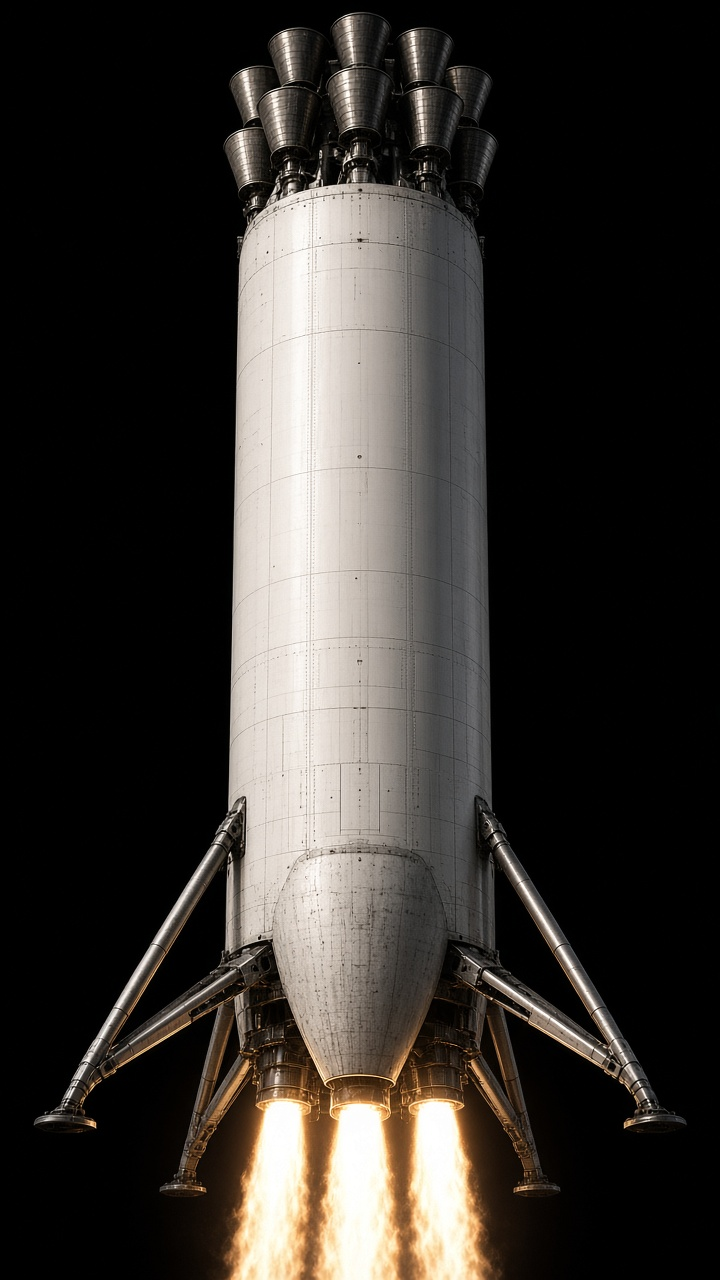
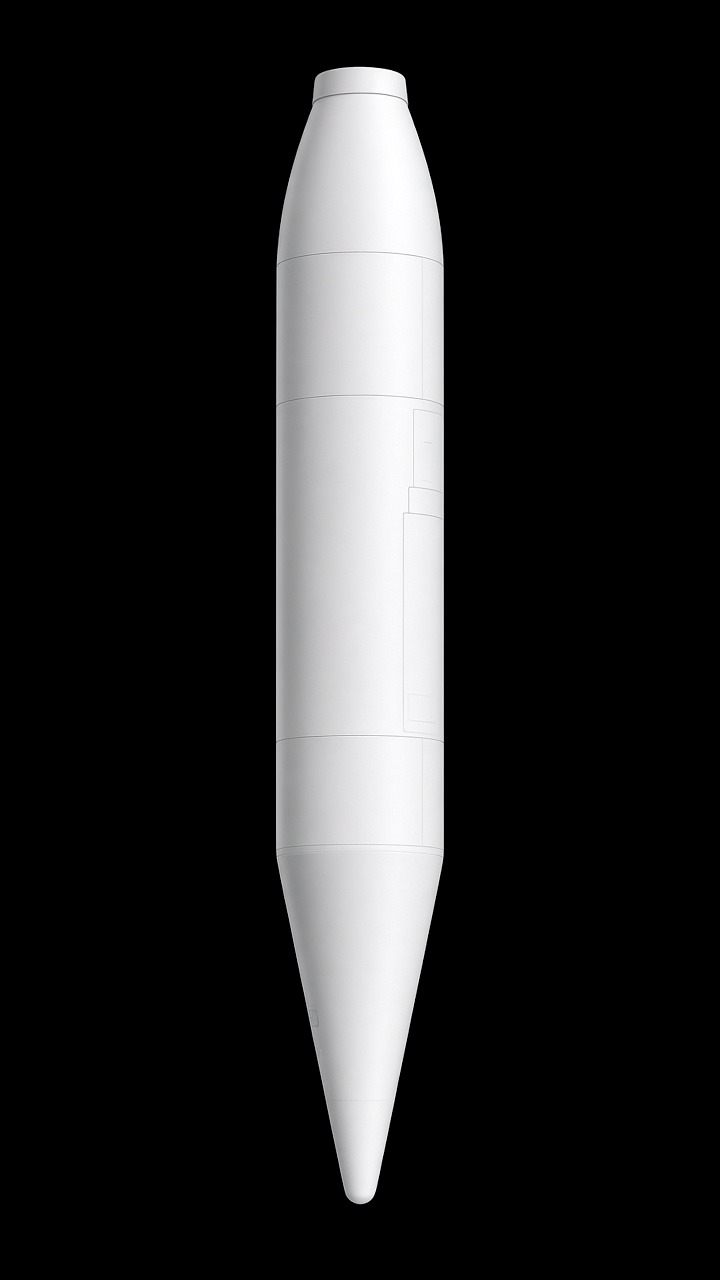
Replace the nose-down slide with a clean inverted stage.
The photograph is one closed white rocket, nose down, with no legs and no engines. The copy matches that vehicle, and the phone layout keeps the stage above the text.

diff --git a/site/js/lang/en.js b/site/js/lang/en.js
@@ -395,13 +395,16 @@ window.EBAL_PACK = {
   "На полигоне П-4. Парашют и двигатели мягкой посадки за 1,2 секунды до грунта. На «Север-0» отклонение было 4,6 км. Коридор для людей уже: 8 км по модели Рахала, за ним — разбор, не катастрофа, но миссия не закрыта.": "South of Orsk. Parachute and soft-landing motors 1.2 seconds before the ground. On Sever-0 the miss was 4.6 km. The corridor for people is tighter: 8 km on Rakhal’s model. Beyond that is a review, not a disaster, but the mission is not closed.",
   "Наши технологии": "Our technology",
   "Носовая посадка": "Nose-first landing",
-  "После отделения ступень разворачивается на 180° и идёт к площадке носовой частью вниз. Торможение ведут три двигателя головного блока. Хвостовая девятка в этом режиме не включается: сопла смотрят вверх.": "After separation the stage turns 180° and flies to the pad nose-down. Three engines in the forward bay do the braking. The tail cluster stays off: its nozzles point upward.",
+  "После отделения ступень разворачивается на 180° и идёт к площадке носовой частью вниз. Хвостовой отсек остаётся сверху.": "After separation the stage turns 180° and flies to the pad nose-down. The tail bay stays on top.",
   "На «Север-1» ступень B1041 садится хвостовым двигателем, как на «Север-0». Носовая посадка начинается со следующего борта.": "On Sever-1, stage B1041 still lands on its tail engine, as on Sever-0. Nose-first landing starts with the next booster.",
   "разворот после отделения": "flip after separation",
-  "двигателя в носу": "engines in the nose",
-  "опоры головного отсека": "legs on the forward bay",
-  "высота включения": "ignition altitude",
+  "к площадке": "toward the pad",
+  "сверху": "on top",
+  "начало режима": "start of the mode",
+  "1,2 км": "1.2 km",
   "Ступень EBAL садится носовой частью к площадке, хвостовые сопла смотрят вверх": "An EBAL stage landing nose-down, tail nozzles pointing up",
-  "Головной блок: опоры вокруг носа и тормозной двигатель": "Forward bay: legs around the nose and the braking engine"
+  "Головной блок: опоры вокруг носа и тормозной двигатель": "Forward bay: legs around the nose and the braking engine",
+  "нос": "nose",
+  "хвост": "tail",
+  "Ступень EBAL перевёрнута: носовая часть внизу, хвостовой отсек сверху": "An EBAL stage turned over: nose at the bottom, tail bay on top",
 };
-window.EBAL_EN = window.EBAL_PACK;

diff --git a/site/js/lang/hi.js b/site/js/lang/hi.js
@@ -53,10 +53,14 @@ window.EBAL_PACK = {
   "Страница эфира": "प्रसारण पृष्ठ",
   "Наши технологии": "हमारी तकनीक",
   "Носовая посадка": "नाक नीचे की ओर लैंडिंग",
-  "После отделения ступень разворачивается на 180° и идёт к площадке носовой частью вниз. Торможение ведут три двигателя головного блока. Хвостовая девятка в этом режиме не включается: сопла смотрят вверх.": "अलग होने के बाद चरण 180° घूमकर पैड की ओर नाक नीचे करके जाता है। ब्रेक आगे के तीन इंजन लगाते हैं। पूँछ के नौ इंजन इस मोड में नहीं चलते: नोजल ऊपर देखते हैं।",
+  "После отделения ступень разворачивается на 180° и идёт к площадке носовой частью вниз. Хвостовой отсек остаётся сверху.": "अलग होने के बाद चरण 180° घूमता है और नाक नीचे करके पैड की ओर जाता है। पूँछ का खंड ऊपर रहता है।",
   "На «Север-1» ступень B1041 садится хвостовым двигателем, как на «Север-0». Носовая посадка начинается со следующего борта.": "सेवेर-1 पर B1041 अभी भी सेवेर-0 की तरह पूँछ के इंजन से उतरता है। नाक-नीचे लैंडिंग अगले बूस्टर से शुरू होती है।",
   "разворот после отделения": "अलग होने के बाद घुमाव",
-  "двигателя в носу": "नाक के इंजन",
-  "опоры головного отсека": "आगे के खंड की टाँगें",
-  "высота включения": "इग्निशन ऊँचाई"
+  "к площадке": "पैड की ओर",
+  "сверху": "ऊपर",
+  "начало режима": "मोड की शुरुआत",
+  "1,2 км": "1,2 km",
+  "нос": "नाक",
+  "хвост": "पूँछ",
+  "Ступень EBAL перевёрнута: носовая часть внизу, хвостовой отсек сверху": "उलटा EBAL चरण: नाक नीचे, पूँछ का खंड ऊपर",
 };

diff --git a/site/js/lang/uk.js b/site/js/lang/uk.js
@@ -53,10 +53,14 @@ window.EBAL_PACK = {
   "Страница эфира": "Сторінка ефіру",
   "Наши технологии": "Наші технології",
   "Носовая посадка": "Носова посадка",
-  "После отделения ступень разворачивается на 180° и идёт к площадке носовой частью вниз. Торможение ведут три двигателя головного блока. Хвостовая девятка в этом режиме не включается: сопла смотрят вверх.": "Після відділення ступінь розвертається на 180° і йде до майданчика носовою частиною вниз. Гальмують три двигуни головного блока. Хвостова дев'ятка в цьому режимі не вмикається: сопла дивляться вгору.",
+  "После отделения ступень разворачивается на 180° и идёт к площадке носовой частью вниз. Хвостовой отсек остаётся сверху.": "Після відокремлення ступінь розвертається на 180° і йде до майданчика носовою частиною вниз. Хвостовий відсік лишається зверху.",
   "На «Север-1» ступень B1041 садится хвостовым двигателем, как на «Север-0». Носовая посадка начинается со следующего борта.": "На «Сєвер-1» ступінь B1041 сідає хвостовим двигуном, як на «Сєвер-0». Носова посадка починається з наступного борту.",
   "разворот после отделения": "розворот після відділення",
-  "двигателя в носу": "двигуни в носі",
-  "опоры головного отсека": "опори головного відсіку",
-  "высота включения": "висота ввімкнення"
+  "к площадке": "до майданчика",
+  "сверху": "зверху",
+  "начало режима": "початок режиму",
+  "1,2 км": "1,2 km",
+  "нос": "ніс",
+  "хвост": "хвіст",
+  "Ступень EBAL перевёрнута: носовая часть внизу, хвостовой отсек сверху": "Ступінь EBAL перевернутий: носова частина внизу, хвостовий відсік зверху",
 };

diff --git a/site/js/lang/kk.js b/site/js/lang/kk.js
@@ -53,10 +53,14 @@ window.EBAL_PACK = {
   "Страница эфира": "Эфир беті",
   "Наши технологии": "Біздің технология",
   "Носовая посадка": "Мұрынмен қону",
-  "После отделения ступень разворачивается на 180° и идёт к площадке носовой частью вниз. Торможение ведут три двигателя головного блока. Хвостовая девятка в этом режиме не включается: сопла смотрят вверх.": "Бөлінгеннен кейін саты 180° бұрылып, алаңға мұрын бөлігімен төмен барады. Тежеуді бас блоктың үш қозғалтқышы жүргізеді. Құйрық тоғыздығы бұл режимде қосылмайды: соплолар жоғары қарайды.",
+  "После отделения ступень разворачивается на 180° и идёт к площадке носовой частью вниз. Хвостовой отсек остаётся сверху.": "Бөлінгеннен кейін саты 180° бұрылады және алаңға мұрнымен төмен барады. Құйрық бөлімі жоғарыда қалады.",
   "На «Север-1» ступень B1041 садится хвостовым двигателем, как на «Север-0». Носовая посадка начинается со следующего борта.": "«Север-1»-де B1041 сатысы «Север-0»-дегідей құйрық қозғалтқышымен қонады. Мұрынмен қону келесі борттан басталады.",
   "разворот после отделения": "бөлінгеннен кейінгі бұрылыс",
-  "двигателя в носу": "мұрындағы қозғалтқыш",
-  "опоры головного отсека": "бас бөлім тіректері",
-  "высота включения": "қосылу биіктігі"
+  "к площадке": "алаңға",
+  "сверху": "жоғарыда",
+  "начало режима": "режимнің басы",
+  "1,2 км": "1,2 km",
+  "нос": "мұрын",
+  "хвост": "құйрық",
+  "Ступень EBAL перевёрнута: носовая часть внизу, хвостовой отсек сверху": "EBAL сатысы төңкерілген: мұрын төменде, құйрық бөлімі жоғарыда",
 };

diff --git a/site/js/lang/ar.js b/site/js/lang/ar.js
@@ -53,10 +53,14 @@ window.EBAL_PACK = {
   "Страница эфира": "صفحة البث",
   "Наши технологии": "تقنيتنا",
   "Носовая посадка": "هبوط بالمقدمة نحو الأرض",
-  "После отделения ступень разворачивается на 180° и идёт к площадке носовой частью вниз. Торможение ведут три двигателя головного блока. Хвостовая девятка в этом режиме не включается: сопла смотрят вверх.": "بعد الانفصال تستدير المرحلة 180° وتهبط ومقدمتها نحو المنصة. الكبح لثلاثة محركات في المقدمة. مجموعة الذيل التسعة لا تعمل في هذا الوضع: فوهاتها تتجه إلى الأعلى.",
+  "После отделения ступень разворачивается на 180° и идёт к площадке носовой частью вниз. Хвостовой отсек остаётся сверху.": "بعد الانفصال تستدير المرحلة 180° وتتجه إلى المنصة ومقدمتها إلى الأسفل. قسم الذيل يبقى في الأعلى.",
   "На «Север-1» ступень B1041 садится хвостовым двигателем, как на «Север-0». Носовая посадка начинается со следующего борта.": "في سيفر-1 تهبط المرحلة B1041 بمحرك الذيل كما في سيفر-0. الهبوط بالمقدمة يبدأ من الجسم التالي.",
   "разворот после отделения": "استدارة بعد الانفصال",
-  "двигателя в носу": "محركات في المقدمة",
-  "опоры головного отсека": "قوائم القسم الأمامي",
-  "высота включения": "ارتفاع التشغيل"
+  "к площадке": "نحو المنصة",
+  "сверху": "في الأعلى",
+  "начало режима": "بداية الوضع",
+  "1,2 км": "1,2 km",
+  "нос": "المقدمة",
+  "хвост": "الذيل",
+  "Ступень EBAL перевёрнута: носовая часть внизу, хвостовой отсек сверху": "مرحلة EBAL مقلوبة: المقدمة في الأسفل وقسم الذيل في الأعلى",
 };

diff --git a/site/js/lang/vi.js b/site/js/lang/vi.js
@@ -53,10 +53,14 @@ window.EBAL_PACK = {
   "Страница эфира": "Trang trực tiếp",
   "Наши технологии": "Công nghệ của chúng tôi",
   "Носовая посадка": "Hạ cánh mũi hướng xuống",
-  "После отделения ступень разворачивается на 180° и идёт к площадке носовой частью вниз. Торможение ведут три двигателя головного блока. Хвостовая девятка в этом режиме не включается: сопла смотрят вверх.": "Sau khi tách, tầng tên lửa xoay 180° và bay xuống bệ với mũi hướng xuống. Ba động cơ ở khối mũi hãm tốc. Chín động cơ đuôi không hoạt động ở chế độ này: loa phụt hướng lên.",
+  "После отделения ступень разворачивается на 180° и идёт к площадке носовой частью вниз. Хвостовой отсек остаётся сверху.": "Sau khi tách, tầng quay 180° và bay về bãi với mũi hướng xuống. Khoang đuôi ở phía trên.",
   "На «Север-1» ступень B1041 садится хвостовым двигателем, как на «Север-0». Носовая посадка начинается со следующего борта.": "Ở Sever-1, tầng B1041 vẫn hạ cánh bằng động cơ đuôi như Sever-0. Hạ cánh mũi xuống bắt đầu từ thân tên lửa tiếp theo.",
   "разворот после отделения": "lật sau khi tách",
-  "двигателя в носу": "động cơ ở mũi",
-  "опоры головного отсека": "chân ở khoang mũi",
-  "высота включения": "độ cao đánh lửa"
+  "к площадке": "về bãi",
+  "сверху": "phía trên",
+  "начало режима": "bắt đầu chế độ",
+  "1,2 км": "1,2 km",
+  "нос": "mũi",
+  "хвост": "đuôi",
+  "Ступень EBAL перевёрнута: носовая часть внизу, хвостовой отсек сверху": "Tầng EBAL lộn ngược: mũi ở dưới, khoang đuôi ở trên",
 };

diff --git a/site/js/lang/fr.js b/site/js/lang/fr.js
@@ -53,10 +53,14 @@ window.EBAL_PACK = {
   "Страница эфира": "Page du direct",
   "Наши технологии": "Notre technologie",
   "Носовая посадка": "Atterrissage nez vers le sol",
-  "После отделения ступень разворачивается на 180° и идёт к площадке носовой частью вниз. Торможение ведут три двигателя головного блока. Хвостовая девятка в этом режиме не включается: сопла смотрят вверх.": "Après la séparation, l'étage se retourne de 180° et rejoint l'aire le nez vers le sol. Trois moteurs du bloc avant freinent. Les neuf moteurs de queue restent éteints : leurs tuyères pointent vers le haut.",
+  "После отделения ступень разворачивается на 180° и идёт к площадке носовой частью вниз. Хвостовой отсек остаётся сверху.": "Après la séparation, l'étage se retourne de 180° et rejoint l'aire le nez vers le sol. Le compartiment de queue reste en haut.",
   "На «Север-1» ступень B1041 садится хвостовым двигателем, как на «Север-0». Носовая посадка начинается со следующего борта.": "Sur Sever-1, l'étage B1041 se pose encore sur le moteur de queue, comme pour Sever-0. L'atterrissage nez vers le sol commence au booster suivant.",
   "разворот после отделения": "retournement après séparation",
-  "двигателя в носу": "moteurs dans le nez",
-  "опоры головного отсека": "pieds du bloc avant",
-  "высота включения": "altitude d'allumage"
+  "к площадке": "vers l'aire",
+  "сверху": "en haut",
+  "начало режима": "début du mode",
+  "1,2 км": "1,2 km",
+  "нос": "nez",
+  "хвост": "queue",
+  "Ступень EBAL перевёрнута: носовая часть внизу, хвостовой отсек сверху": "Un étage EBAL retourné : le nez en bas, le compartiment de queue en haut",
 };

diff --git a/site/js/lang/es.js b/site/js/lang/es.js
@@ -53,10 +53,14 @@ window.EBAL_PACK = {
   "Страница эфира": "Página del directo",
   "Наши технологии": "Nuestra tecnología",
   "Носовая посадка": "Aterrizaje con el morro hacia abajo",
-  "После отделения ступень разворачивается на 180° и идёт к площадке носовой частью вниз. Торможение ведут три двигателя головного блока. Хвостовая девятка в этом режиме не включается: сопла смотрят вверх.": "Tras la separación, la etapa gira 180° y baja con el morro hacia la plataforma. Frenan tres motores del bloque de proa. Los nueve de cola no se encienden: sus toberas apuntan hacia arriba.",
+  "После отделения ступень разворачивается на 180° и идёт к площадке носовой частью вниз. Хвостовой отсек остаётся сверху.": "Tras la separación, la etapa gira 180° y va a la plataforma con el morro hacia abajo. El compartimento de cola queda arriba.",
   "На «Север-1» ступень B1041 садится хвостовым двигателем, как на «Север-0». Носовая посадка начинается со следующего борта.": "En Sever-1 la etapa B1041 aún aterriza con el motor de cola, como en Sever-0. El aterrizaje con el morro hacia abajo empieza en el siguiente booster.",
   "разворот после отделения": "giro tras la separación",
-  "двигателя в носу": "motores en el morro",
-  "опоры головного отсека": "patas del bloque de proa",
-  "высота включения": "altura de encendido"
+  "к площадке": "hacia la plataforma",
+  "сверху": "arriba",
+  "начало режима": "inicio del modo",
+  "1,2 км": "1,2 km",
+  "нос": "morro",
+  "хвост": "cola",
+  "Ступень EBAL перевёрнута: носовая часть внизу, хвостовой отсек сверху": "Una etapa EBAL invertida: el morro abajo, el compartimento de cola arriba",
 };

diff --git a/site/js/lang/pt.js b/site/js/lang/pt.js
@@ -53,10 +53,14 @@ window.EBAL_PACK = {
   "Страница эфира": "Página ao vivo",
   "Наши технологии": "A nossa tecnologia",
   "Носовая посадка": "Pouso com o nariz para baixo",
-  "После отделения ступень разворачивается на 180° и идёт к площадке носовой частью вниз. Торможение ведут три двигателя головного блока. Хвостовая девятка в этом режиме не включается: сопла смотрят вверх.": "Depois da separação, o estágio gira 180° e desce com o nariz voltado para a plataforma. Três motores do bloco dianteiro freiam. Os nove da cauda ficam desligados: os bocais apontam para cima.",
+  "После отделения ступень разворачивается на 180° и идёт к площадке носовой частью вниз. Хвостовой отсек остаётся сверху.": "Depois da separação, o estágio gira 180° e segue para a plataforma com o nariz para baixo. O compartimento da cauda fica em cima.",
   "На «Север-1» ступень B1041 садится хвостовым двигателем, как на «Север-0». Носовая посадка начинается со следующего борта.": "No Sever-1, o estágio B1041 ainda pousa no motor de cauda, como no Sever-0. O pouso com o nariz para baixo começa no booster seguinte.",
   "разворот после отделения": "giro após a separação",
-  "двигателя в носу": "motores no nariz",
-  "опоры головного отсека": "pernas do bloco dianteiro",
-  "высота включения": "altitude de ignição"
+  "к площадке": "para a plataforma",
+  "сверху": "em cima",
+  "начало режима": "início do modo",
+  "1,2 км": "1,2 km",
+  "нос": "nariz",
+  "хвост": "cauda",
+  "Ступень EBAL перевёрнута: носовая часть внизу, хвостовой отсек сверху": "Um estágio EBAL invertido: nariz em baixo, compartimento da cauda em cima",
 };

diff --git a/site/js/lang/it.js b/site/js/lang/it.js
@@ -53,10 +53,14 @@ window.EBAL_PACK = {
   "Страница эфира": "Pagina della diretta",
   "Наши технологии": "La nostra tecnologia",
   "Носовая посадка": "Atterraggio con il muso verso il basso",
-  "После отделения ступень разворачивается на 180° и идёт к площадке носовой частью вниз. Торможение ведут три двигателя головного блока. Хвостовая девятка в этом режиме не включается: сопла смотрят вверх.": "Dopo la separazione lo stadio ruota di 180° e scende con il muso verso la piazzola. Frenano tre motori nel blocco di prua. I nove di coda restano spenti: gli ugelli guardano in alto.",
+  "После отделения ступень разворачивается на 180° и идёт к площадке носовой частью вниз. Хвостовой отсек остаётся сверху.": "Dopo la separazione lo stadio ruota di 180° e va verso la piazzola con il muso verso il basso. Il vano di coda resta in alto.",
   "На «Север-1» ступень B1041 садится хвостовым двигателем, как на «Север-0». Носовая посадка начинается со следующего борта.": "Su Sever-1 lo stadio B1041 atterra ancora sul motore di coda, come su Sever-0. L'atterraggio con il muso verso il basso inizia dal booster successivo.",
   "разворот после отделения": "rotazione dopo la separazione",
-  "двигателя в носу": "motori nel muso",
-  "опоры головного отсека": "gambe del blocco di prua",
-  "высота включения": "quota di accensione"
+  "к площадке": "verso la piazzola",
+  "сверху": "in alto",
+  "начало режима": "inizio del modo",
+  "1,2 км": "1,2 km",
+  "нос": "muso",
+  "хвост": "coda",
+  "Ступень EBAL перевёрнута: носовая часть внизу, хвостовой отсек сверху": "Uno stadio EBAL capovolto: muso in basso, vano di coda in alto",
 };

diff --git a/site/js/lang/ja.js b/site/js/lang/ja.js
@@ -53,10 +53,14 @@ window.EBAL_PACK = {
   "Страница эфира": "中継ページ",
   "Наши технологии": "私たちの技術",
   "Носовая посадка": "機首下方への着陸",
-  "После отделения ступень разворачивается на 180° и идёт к площадке носовой частью вниз. Торможение ведут три двигателя головного блока. Хвостовая девятка в этом режиме не включается: сопла смотрят вверх.": "分離後、段は180°反転し、機首先端を下にして着陸点へ向かう。制動は先端ブロックの3基が行う。尾部の9基はこのモードでは点火しない。ノズルは上を向いたままだ。",
+  "После отделения ступень разворачивается на 180° и идёт к площадке носовой частью вниз. Хвостовой отсек остаётся сверху.": "分離のあと段は180°回頭し、機首を下にして着陸点へ向かう。尾部区画は上に残る。",
   "На «Север-1» ступень B1041 садится хвостовым двигателем, как на «Север-0». Носовая посадка начинается со следующего борта.": "セベル1ではB1041はセベル0と同じく尾部エンジンで着陸する。機首を下にした着陸は次の機体から始める。",
   "разворот после отделения": "分離後の反転",
-  "двигателя в носу": "機首のエンジン",
-  "опоры головного отсека": "先端部の脚",
-  "высота включения": "点火高度"
+  "к площадке": "着陸点へ",
+  "сверху": "上",
+  "начало режима": "モード開始",
+  "1,2 км": "1,2 km",
+  "нос": "機首",
+  "хвост": "尾部",
+  "Ступень EBAL перевёрнута: носовая часть внизу, хвостовой отсек сверху": "逆さのEBAL段：機首が下、尾部区画が上",
 };

diff --git a/site/js/lang/ko.js b/site/js/lang/ko.js
@@ -53,10 +53,14 @@ window.EBAL_PACK = {
   "Страница эфира": "중계 페이지",
   "Наши технологии": "우리의 기술",
   "Носовая посадка": "기수 아래 착륙",
-  "После отделения ступень разворачивается на 180° и идёт к площадке носовой частью вниз. Торможение ведут три двигателя головного блока. Хвостовая девятка в этом режиме не включается: сопла смотрят вверх.": "분리 후 단은 180° 회전해 기수를 아래로 하고 착륙대로 간다. 제동은 전방부의 엔진 세 기가 맡는다. 후방 아홉 기는 이 모드에서 켜지지 않는다. 노즐은 위를 향한다.",
+  "После отделения ступень разворачивается на 180° и идёт к площадке носовой частью вниз. Хвостовой отсек остаётся сверху.": "분리 후 단은 180° 회전해 기수를 아래로 하고 착륙장으로 간다. 꼬리 구획은 위에 남는다.",
   "На «Север-1» ступень B1041 садится хвостовым двигателем, как на «Север-0». Носовая посадка начинается со следующего борта.": "세베르-1에서 B1041은 세베르-0처럼 아직 후방 엔진으로 착륙한다. 기수를 아래로 한 착륙은 다음 기체부터다.",
   "разворот после отделения": "분리 후 회전",
-  "двигателя в носу": "기수의 엔진",
-  "опоры головного отсека": "전방부 다리",
-  "высота включения": "점화 고도"
+  "к площадке": "착륙장으로",
+  "сверху": "위",
+  "начало режима": "모드 시작",
+  "1,2 км": "1,2 km",
+  "нос": "기수",
+  "хвост": "꼬리",
+  "Ступень EBAL перевёрнута: носовая часть внизу, хвостовой отсек сверху": "뒤집힌 EBAL 단: 기수는 아래, 꼬리 구획은 위",
 };
